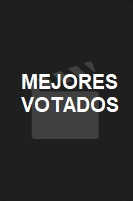
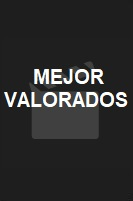
all tv and series done

Changed region(s): [[0.0301, 0.3284, 0.9624, 0.5672]]

diff --git a/src/helpers/getAPISearch.ts b/src/helpers/getAPISearch.ts
@@ -24,25 +24,41 @@ export const getAPISearch = async (props: Props): Promise<TitleInfo[]> => {
   const data = await res.json()
 
   const searchData: TitleInfo[] = data.results.map((search: SearchData) => {
-    let name, originalName, releaseDay, programType
+    let name, originalName, releaseDay, programType, rating, gender, posterUrl
 
-    if (searchType === 'movie') {
+    const { media_type, id, overview: description } = search
+
+    if (media_type === 'movie' || searchType === 'movie') {
       name = search.title
       originalName = search.original_title
       releaseDay = search.release_date
-      programType = 'movie'
-    } else if (searchType === 'tv') {
+      programType = 'Pelicula'
+      rating = search.vote_average.toFixed(1)
+      posterUrl = search.poster_path
+        ? `https://image.tmdb.org/t/p/w500/${search.poster_path}`
+        : '/posterWhite.jpg'
+    } else if (media_type === 'tv' || searchType === 'tv') {
       name = search.name
       originalName = search.original_name
       releaseDay = search.first_air_date
-      programType = 'tv'
+      programType = 'Serie Tv'
+      rating = search.vote_average.toFixed(1)
+      posterUrl = search.poster_path
+        ? `https://image.tmdb.org/t/p/w500/${search.poster_path}`
+        : '/posterWhite.jpg'
+    } else if (media_type === 'person' || searchType === 'person') {
+      name = search.name
+      originalName = search.original_name
+      programType = 'Persona'
+      posterUrl = search.profile_path
+        ? `https://image.tmdb.org/t/p/w500${search.profile_path}`
+        : '/posterWhite.jpg'
+      if (Number(search.gender) === 1) {
+        gender = 'Femenino'
+      } else if (Number(search.gender) === 2) {
+        gender = 'Masculino'
+      }
     }
-
-    const { id, overview: description, vote_average } = search
-    const rating = vote_average.toFixed(1)
-    const posterUrl = search.poster_path
-      ? `https://image.tmdb.org/t/p/w500/${search.poster_path}`
-      : '/posterWhite.jpg'
 
     return {
       id,
@@ -53,7 +69,9 @@ export const getAPISearch = async (props: Props): Promise<TitleInfo[]> => {
       posterUrl,
       releaseDay,
       rating,
+      gender,
     }
   })
+
   return searchData
 }

diff --git a/src/helpers/getAPITrending.ts b/src/helpers/getAPITrending.ts
@@ -27,28 +27,41 @@ export const getAPITrending = async (props: Props): Promise<TitleInfo[]> => {
   const data = await res.json()
 
   const titleData: TitleInfo[] = data.results.map((title: SearchData) => {
-    let name, originalName, releaseDay
+    let name, originalName, releaseDay, programType, rating, gender, posterUrl
 
-    if (searchType === 'movie') {
+    const { media_type, id, overview: description } = title
+
+    if (media_type === 'movie' || searchType === 'movie') {
       name = title.title
       originalName = title.original_title
       releaseDay = title.release_date
-    } else if (searchType === 'tv') {
+      programType = 'Pelicula'
+      rating = title.vote_average.toFixed(1)
+      posterUrl = title.poster_path
+        ? `https://image.tmdb.org/t/p/w500/${title.poster_path}`
+        : '/posterWhite.jpg'
+    } else if (media_type === 'tv' || searchType === 'tv') {
       name = title.name
       originalName = title.original_name
       releaseDay = title.first_air_date
+      programType = 'Serie Tv'
+      rating = title.vote_average.toFixed(1)
+      posterUrl = title.poster_path
+        ? `https://image.tmdb.org/t/p/w500/${title.poster_path}`
+        : '/posterWhite.jpg'
+    } else if (media_type === 'person' || searchType === 'person') {
+      name = title.name
+      originalName = title.original_name
+      programType = 'Persona'
+      posterUrl = title.profile_path
+        ? `https://image.tmdb.org/t/p/w500${title.profile_path}`
+        : '/posterWhite.jpg'
+      if (Number(title.gender) === 1) {
+        gender = 'Femenino'
+      } else if (Number(title.gender) === 2) {
+        gender = 'Masculino'
+      }
     }
-
-    const {
-      id,
-      overview: description,
-      media_type: programType,
-      vote_average,
-    } = title
-    const rating = vote_average.toFixed(1)
-    const posterUrl = title.poster_path
-      ? `https://image.tmdb.org/t/p/w500/${title.poster_path}`
-      : '/posterWhite.jpg'
 
     return {
       id,
@@ -59,6 +72,7 @@ export const getAPITrending = async (props: Props): Promise<TitleInfo[]> => {
       posterUrl,
       releaseDay,
       rating,
+      gender,
     }
   })
 

diff --git a/src/pages/TitleTypePage.tsx b/src/pages/TitleTypePage.tsx
@@ -33,8 +33,8 @@ export const TitleTypePage = () => {
         <CardTypeComponent
           titleTypeInfo={searchType}
           pageInfo='Personas'
-          link='people'
-          image='People'
+          link='person'
+          image='Person'
         />
       </>
     )
@@ -55,13 +55,13 @@ export const TitleTypePage = () => {
         />
         <CardTypeComponent
           titleTypeInfo={searchType}
-          pageInfo='Mejores votados'
+          pageInfo='Mejor Valorados'
           link='top_rated'
           image='TopRated'
         />
         <CardTypeComponent
           titleTypeInfo={searchType}
-          pageInfo='Más populares'
+          pageInfo='Más Populares'
           link='popular'
           image='Popular'
         />
@@ -84,7 +84,7 @@ export const TitleTypePage = () => {
         />
         <CardTypeComponent
           titleTypeInfo={searchType}
-          pageInfo='Mejor votados'
+          pageInfo='Mejor Valorados'
           link='top_rated'
           image='TopRated'
         />
@@ -102,7 +102,7 @@ export const TitleTypePage = () => {
         <CardTypeComponent
           titleTypeInfo={searchType}
           pageInfo='Buscar Todos'
-          link='all'
+          link='multi'
           image='All'
         />
         <CardTypeComponent

diff --git a/src/components/TitleCard.tsx b/src/components/TitleCard.tsx
@@ -18,7 +18,7 @@ export const TitleCard: React.FC<TitleCardProps> = ({ titles }) => {
             // Card
 
             <div className='py-2 sm:max-w-xl sm:mx-auto h-max-150' key={id}>
-              <Link to={`/${programType}/${id}`}>
+              <Link to={`/card/${programType}/${id}`}>
                 {/* Contenido de la card */}
                 <div
                   className='bg-white shadow-lg border-gray-100 
@@ -44,9 +44,12 @@ export const TitleCard: React.FC<TitleCardProps> = ({ titles }) => {
                       >
                         {name}
                       </h2>
-                      <div className='bg-green-300 font-bold rounded-xl p-1'>
-                        {rating}
-                      </div>
+
+                      {rating && (
+                        <div className='bg-green-300 font-bold rounded-xl p-1'>
+                          {rating}
+                        </div>
+                      )}
                     </div>
 
                     <div className='max-h-20 overflow-hidden line-clamp-3'>

diff --git a/src/pages/TypeMediaPage.tsx b/src/pages/TypeMediaPage.tsx
@@ -1,0 +1,36 @@
+import { useEffect, useState } from 'react'
+import { TitleInfo } from '../types/types'
+import { TitleCard } from '../components'
+import { useParams } from 'react-router-dom'
+import { getAPIMedia } from '../helpers'
+import { useTypeSearch } from '../hooks/useTypeSearch'
+
+export const TypeMediaPage = () => {
+  const [titles, setTitles] = useState<TitleInfo[]>([])
+
+  const { typeSearch, typeMedia } = useParams()
+
+  const { pageTitle } = useTypeSearch(typeSearch)
+
+  useEffect(() => {
+    async function fetchTitles() {
+      try {
+        const data = await getAPIMedia({ typeSearch, typeMedia })
+        setTitles(data)
+      } catch (error) {
+        console.error('Error fetching movie name:', error)
+      }
+    }
+
+    fetchTitles()
+  }, [typeMedia, typeSearch])
+
+  return (
+    <>
+      <h2 className='text-4xl font-extrabold text-center dark:text-white mt-5 ml-3'>
+        {pageTitle}
+      </h2>
+      <TitleCard titles={titles} />
+    </>
+  )
+}

diff --git a/src/hooks/usePageInfo.tsx b/src/hooks/usePageInfo.tsx
@@ -3,14 +3,16 @@ export const usePageInfo = (typeMedia?: string) => {
     return { pageInfo: 'Peliculas', searchType: 'movie' }
   } else if (typeMedia === 'tv') {
     return { pageInfo: 'Series', searchType: 'tv' }
-  } else if (typeMedia === 'people') {
-    return { pageInfo: 'Personas', searchType: 'people' }
+  } else if (typeMedia === 'person') {
+    return { pageInfo: 'Personas', searchType: 'person' }
   } else if (typeMedia === 'all') {
     return { pageInfo: 'Todo', searchType: 'all' }
   } else if (typeMedia === 'tendency') {
     return { pageInfo: 'Tendencias', searchType: 'tendency' }
   } else if (typeMedia === 'search') {
     return { pageInfo: 'Buscar', searchType: 'search' }
+  } else if (typeMedia === 'multi') {
+    return { pageInfo: 'Todos', searchType: 'multi' }
   }
   return { pageInfo: '', searchType: '' }
 }

diff --git a/src/routes/ChallengeRoutes.tsx b/src/routes/ChallengeRoutes.tsx
@@ -5,6 +5,7 @@ import {
   TitleIdPage,
   TitleTypePage,
   TopTitlePage,
+  TypeMediaPage,
 } from '../pages'
 import { Navbar } from '../components'
 
@@ -17,7 +18,8 @@ export const ChallengeRoutes = () => {
           <Route path='tendency/:typeMedia' element={<TopTitlePage />} />
           <Route path='search/:typeMedia' element={<SearchPage />} />
           <Route path=':typeMedia' element={<TitleTypePage />} />
-          <Route path='/:titulo/:id' element={<TitleIdPage />} />
+          <Route path=':typeMedia/:typeSearch' element={<TypeMediaPage />} />
+          <Route path='/card/:titulo/:id' element={<TitleIdPage />} />
           <Route path='/' element={<ChallengePage />} />
           <Route path='/*' element={<Navigate to='/' />} />
         </Routes>

diff --git a/src/helpers/getAPIMedia.ts b/src/helpers/getAPIMedia.ts
@@ -1,14 +1,15 @@
 import { SearchData, TitleInfo } from '../types/types'
 
 type Props = {
-  queryType: string
+  typeSearch?: string
+  typeMedia?: string
 }
 
 // now_playing, popular, top_rated, upcoming
-export const getAPImovie = async (props: Props): Promise<TitleInfo[]> => {
-  const { queryType } = props
+export const getAPIMedia = async (props: Props): Promise<TitleInfo[]> => {
+  const { typeSearch, typeMedia } = props
 
-  const url = `https://api.themoviedb.org/3/movie/${queryType}?language=es-ES&page=1'`
+  const url = `https://api.themoviedb.org/3/${typeMedia}/${typeSearch}?language=es-ES&page=1'`
 
   const options = {
     method: 'GET',

diff --git a/src/hooks/useTypeSearch.tsx b/src/hooks/useTypeSearch.tsx
@@ -1,0 +1,16 @@
+export const useTypeSearch = (typeSearch?: string) => {
+  if (typeSearch === 'airing_today') {
+    return { pageTitle: 'En Tv Hoy' }
+  } else if (typeSearch === 'on_the_air') {
+    return { pageTitle: 'En Tv Ahora' }
+  } else if (typeSearch === 'top_rated') {
+    return { pageTitle: 'Mejor Valorados' }
+  } else if (typeSearch === 'popular') {
+    return { pageTitle: 'Mas Populares' }
+  } else if (typeSearch === 'now_playing') {
+    return { pageTitle: 'En El Cine' }
+  } else if (typeSearch === 'upcoming') {
+    return { pageTitle: 'Proximos Estrenos' }
+  }
+  return { pageTitle: '' }
+}

diff --git a/src/pages/TitleIdPage.tsx b/src/pages/TitleIdPage.tsx
@@ -19,10 +19,10 @@ export const TitleIdPage = () => {
         if (data !== null) {
           setTitle(data)
         } else {
-          console.error('Error fetching the data fix please:')
+          console.error('Hiciste mal un error en el fetch:')
         }
       } catch (error) {
-        console.error('Error fetching the data fix please:', error)
+        console.error('Hubo un tremendo error en el catch:', error)
       }
     }
 

diff --git a/src/types/types.ts b/src/types/types.ts
@@ -17,6 +17,7 @@ export interface TitleInfo {
   genres?: GenresProps[]
   watchProviderFlatrate?: FlatRateProps[]
   watchProviderLink?: string
+  gender?: string
 }
 
 export interface SearchData {
@@ -32,6 +33,8 @@ export interface SearchData {
   original_title?: string
   first_air_date?: string
   media_type?: string
+  gender?: string
+  profile_path?: string
 }
 
 export interface TitleCardProps {

diff --git a/src/pages/ChallengePage.tsx b/src/pages/ChallengePage.tsx
@@ -19,13 +19,4 @@ export const ChallengePage = () => {
 //TODO
 // En el componente de la movie o serie que tenga una parte de comentarios y solo te deje comentar si esta logueado
 
-//Hacer que funcione Tv
-//Hacer que funcione Movie
-
-//Hacer que funcione tendencia Personas
-
-//Hacer que funcione Buscar Todos
-
-//Hacer que fuuncione Buscar Personas
-
 // Hacer que funcione el ID Card
